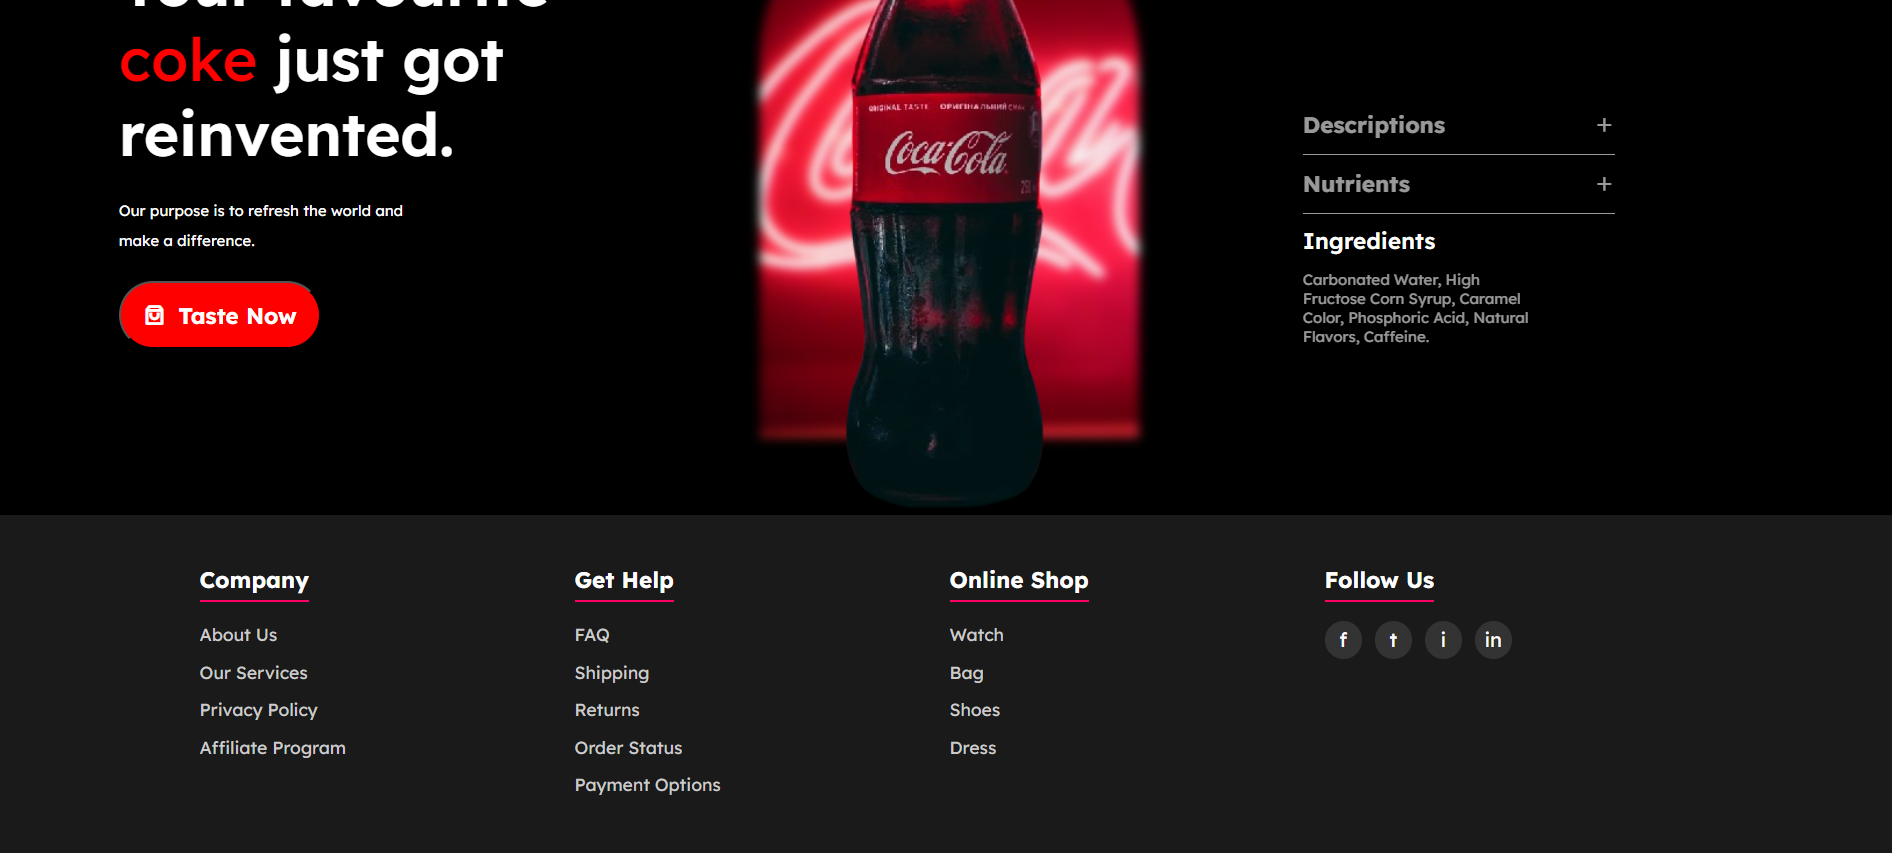
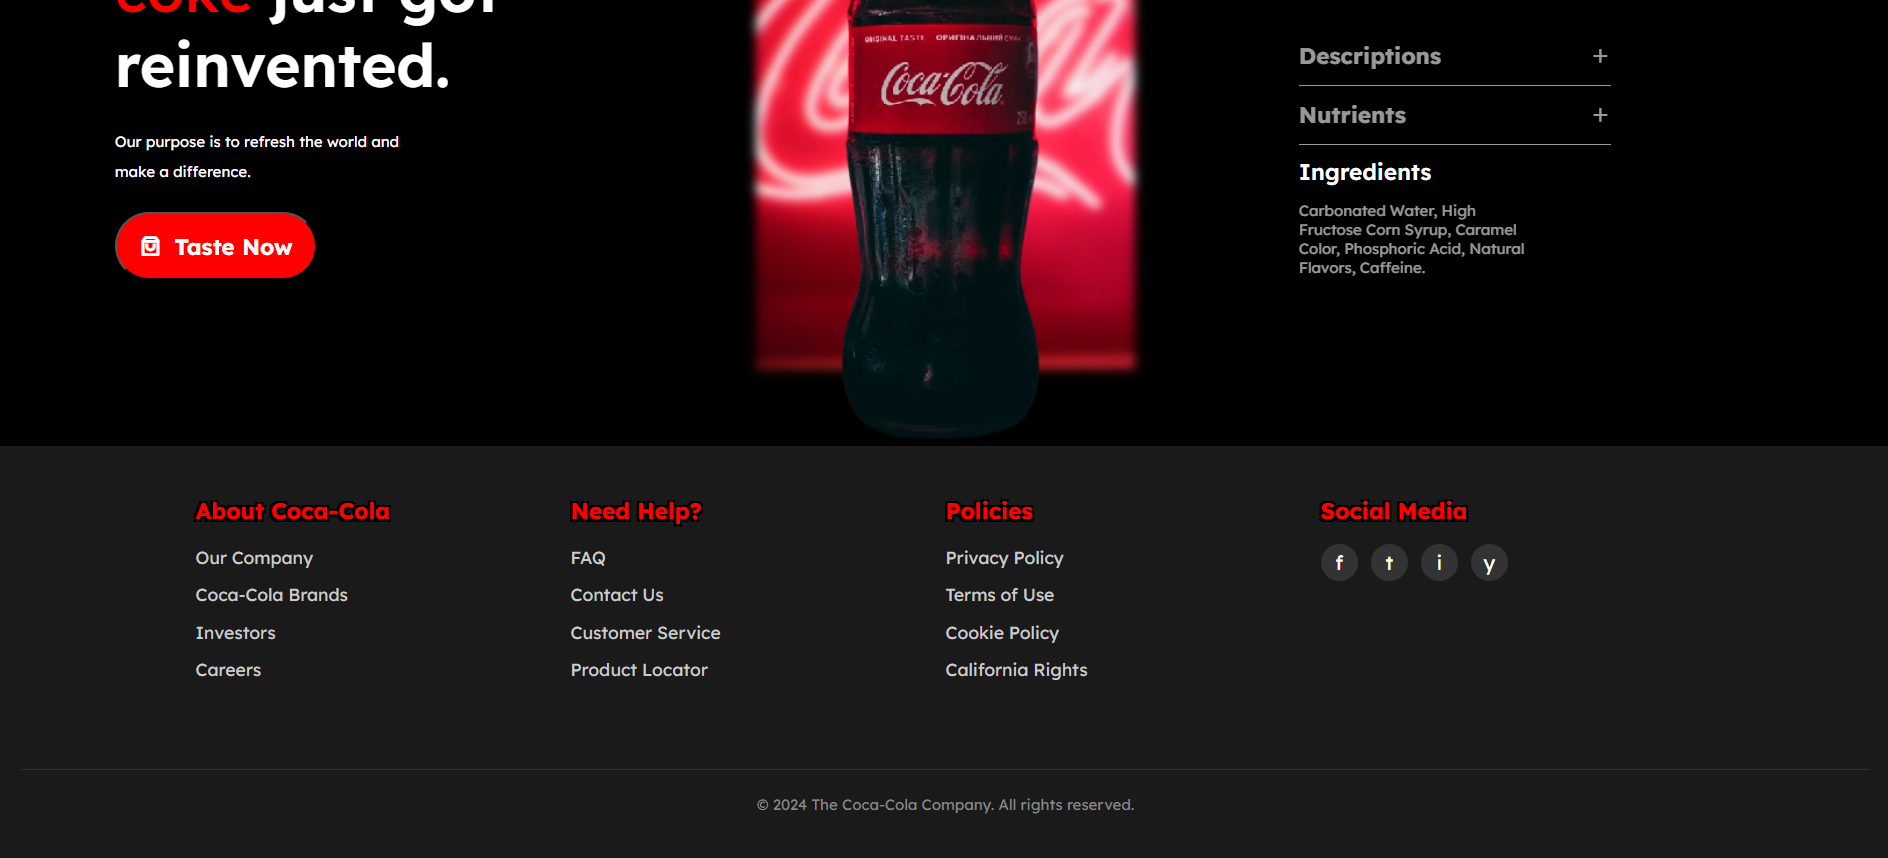
final commit

diff --git a/landing.html b/landing.html
@@ -64,42 +64,44 @@
     <footer class="footer">
         <div class="footer-content">
             <div class="footer-section">
-                <h3>Company</h3>
+                <h3>About Coca-Cola</h3>
                 <ul>
-                    <li><a href="#">About Us</a></li>
-                    <li><a href="#">Our Services</a></li>
-                    <li><a href="#">Privacy Policy</a></li>
-                    <li><a href="#">Affiliate Program</a></li>
+                    <li><a href="#">Our Company</a></li>
+                    <li><a href="#">Coca-Cola Brands</a></li>
+                    <li><a href="#">Investors</a></li>
+                    <li><a href="#">Careers</a></li>
                 </ul>
             </div>
             <div class="footer-section">
-                <h3>Get Help</h3>
+                <h3>Need Help?</h3>
                 <ul>
                     <li><a href="#">FAQ</a></li>
-                    <li><a href="#">Shipping</a></li>
-                    <li><a href="#">Returns</a></li>
-                    <li><a href="#">Order Status</a></li>
-                    <li><a href="#">Payment Options</a></li>
+                    <li><a href="#">Contact Us</a></li>
+                    <li><a href="#">Customer Service</a></li>
+                    <li><a href="#">Product Locator</a></li>
                 </ul>
             </div>
             <div class="footer-section">
-                <h3>Online Shop</h3>
+                <h3>Policies</h3>
                 <ul>
-                    <li><a href="#">Watch</a></li>
-                    <li><a href="#">Bag</a></li>
-                    <li><a href="#">Shoes</a></li>
-                    <li><a href="#">Dress</a></li>
+                    <li><a href="#">Privacy Policy</a></li>
+                    <li><a href="#">Terms of Use</a></li>
+                    <li><a href="#">Cookie Policy</a></li>
+                    <li><a href="#">California Rights</a></li>
                 </ul>
             </div>
             <div class="footer-section">
-                <h3>Follow Us</h3>
+                <h3>Social Media</h3>
                 <div class="social-icons">
                     <a href="#" aria-label="Facebook">f</a>
                     <a href="#" aria-label="Twitter">t</a>
                     <a href="#" aria-label="Instagram">i</a>
-                    <a href="#" aria-label="LinkedIn">in</a>
+                    <a href="#" aria-label="YouTube">y</a>
                 </div>
             </div>
+        </div>
+        <div class="footer-bottom">
+            <p>&copy; 2024 The Coca-Cola Company. All rights reserved.</p>
         </div>
     </footer>
 </body>

diff --git a/landing.css b/landing.css
@@ -165,49 +165,46 @@ iframe {
 }
 .footer {
     background-color: #1a1a1a;
+    color: #ffffff;
     padding: 40px 20px;
 }
-
 .footer-content {
-    display: flex;
-    justify-content: space-between;
     max-width: 1200px;
     margin: 0 auto;
+    display: flex;
+    flex-wrap: wrap;
+    justify-content: space-between;
 }
-
 .footer-section {
     flex: 1;
-    margin-right: 20px;
+    min-width: 200px;
+    margin-bottom: 20px;
 }
-
 .footer-section h3 {
-    color: #ffffff;
+    color: #ff0000;
+    text-shadow: 
+        -2px -2px 0 #000000,
+        2px -2px 0 #000000,
+        -2px 2px 0 #000000,
+        2px 2px 0 #000000;
     font-size: 18px;
     margin-bottom: 15px;
-    padding-bottom: 5px;
-    border-bottom: 2px solid #ff0066;
-    display: inline-block;
 }
-
 .footer-section ul {
     list-style-type: none;
     padding: 0;
 }
-
 .footer-section ul li {
     margin-bottom: 10px;
 }
-
 .footer-section ul li a {
     color: #cccccc;
     text-decoration: none;
     font-size: 14px;
 }
-
 .footer-section ul li a:hover {
     color: #ffffff;
 }
-
 .social-icons {
     display: flex;
     gap: 10px;
@@ -226,5 +223,15 @@ iframe {
 }
 
 .social-icons a:hover {
-    background-color: #ff0066;
+    background-color: #ff0000;
+}
+.footer-bottom {
+    margin-top: 40px;
+    text-align: center;
+    padding-top: 20px;
+    border-top: 1px solid #333;
+}
+.footer-bottom p {
+    font-size: 12px;
+    color: #888;
 }
